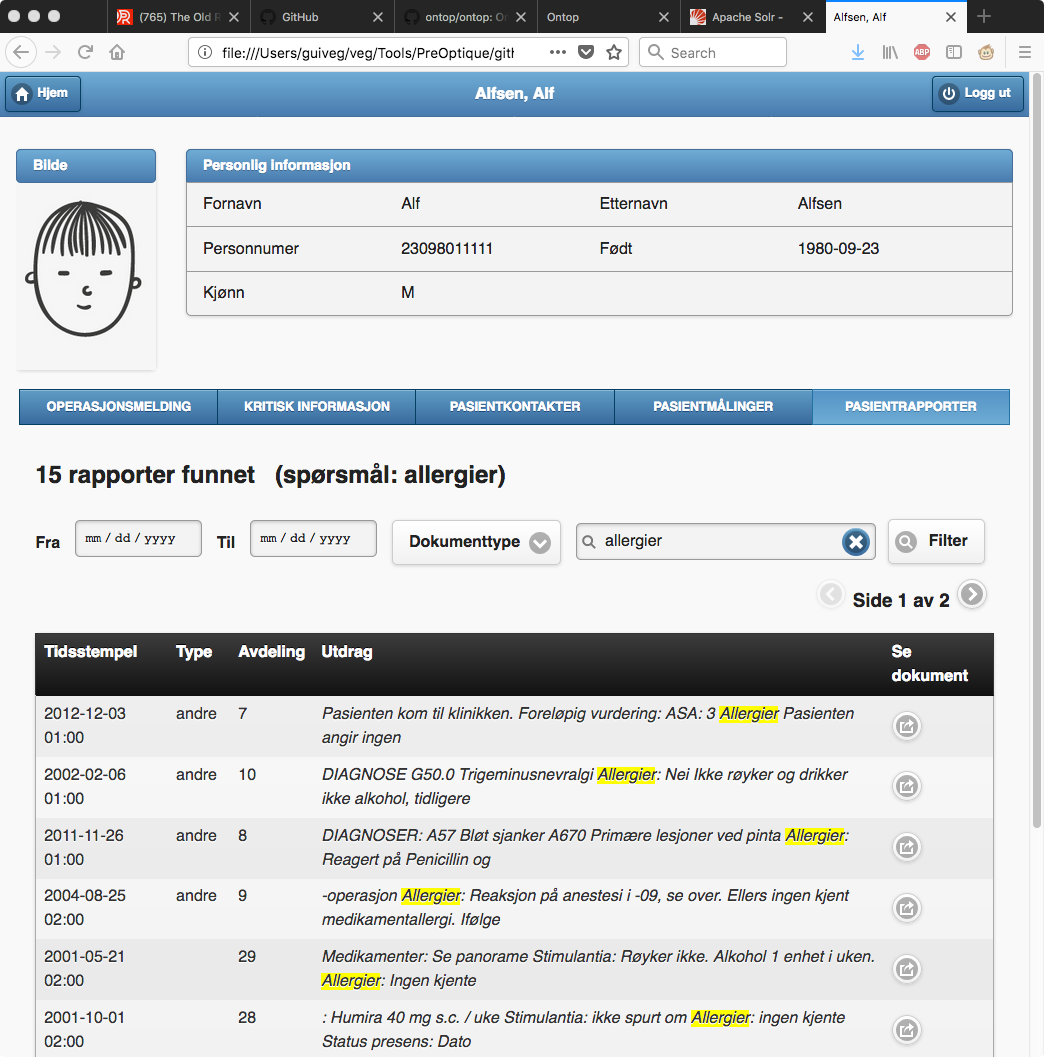
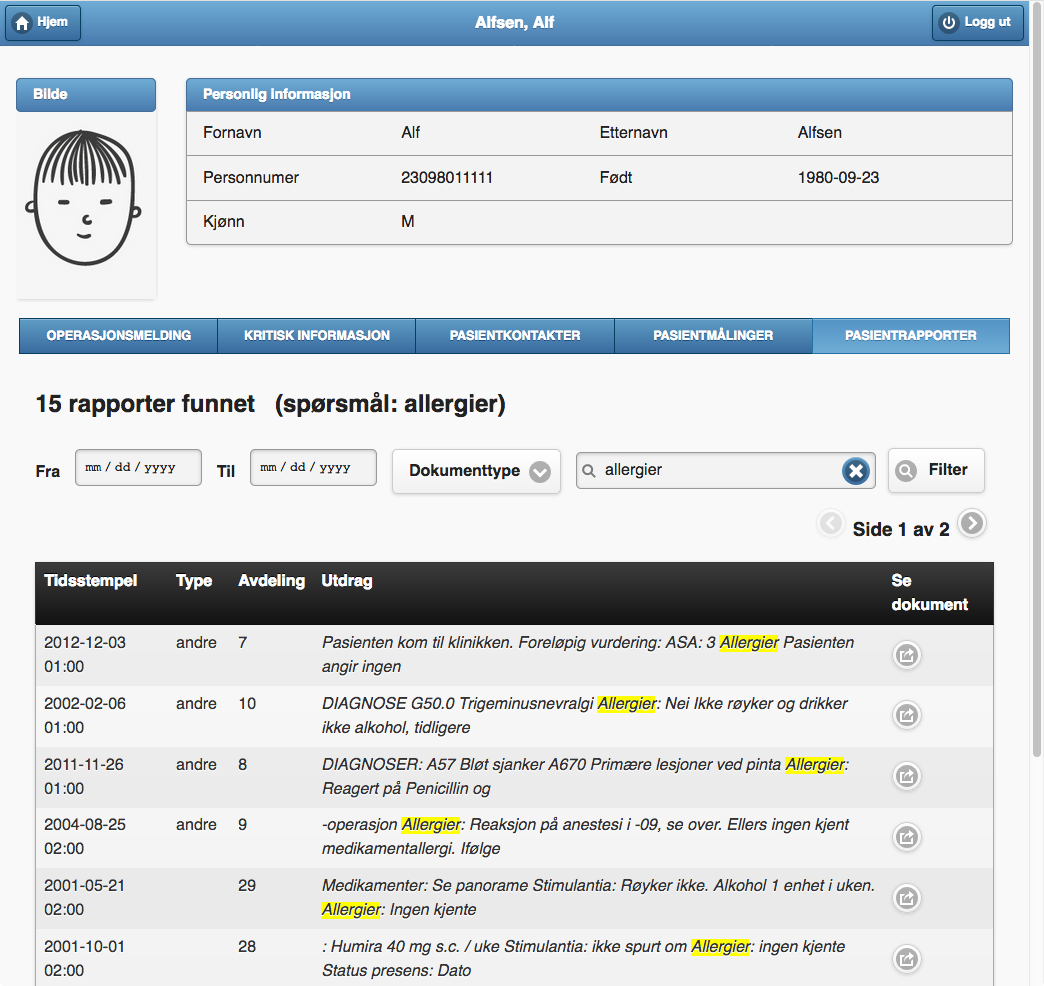
Updated images

diff --git a/README.md b/README.md
@@ -27,6 +27,8 @@ Some screenshots of PreOptique:
 
 ![screenshot](/screenshots/preoptique3.png)
 
+![screenshot](/screenshots/preoptique4.png)
+
 
 Configuration
 ==========
